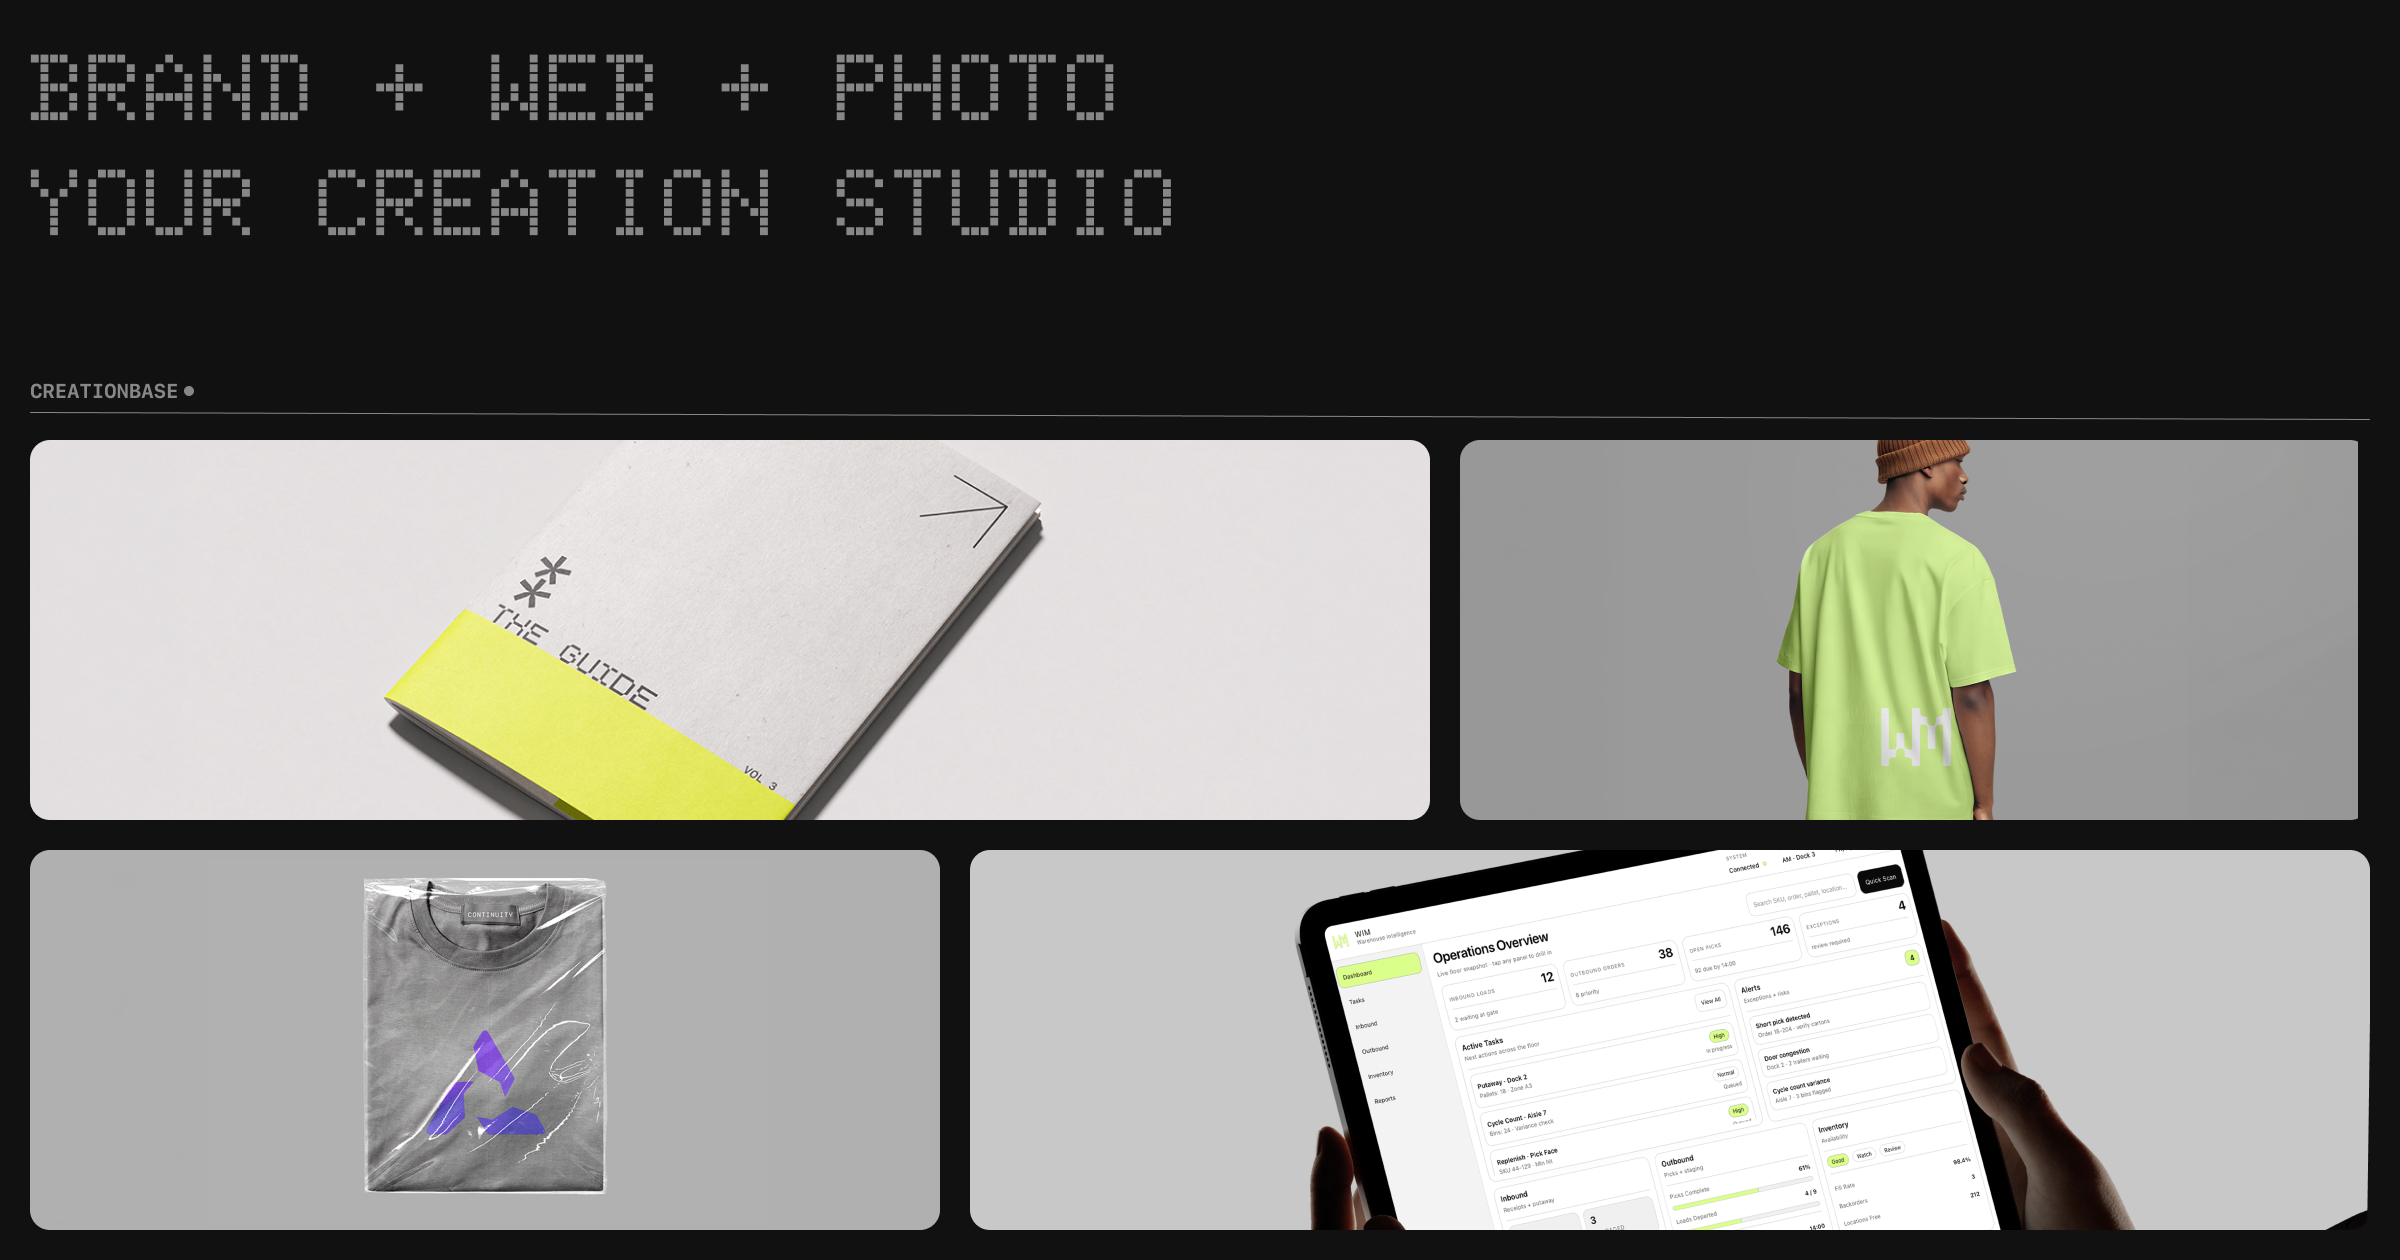
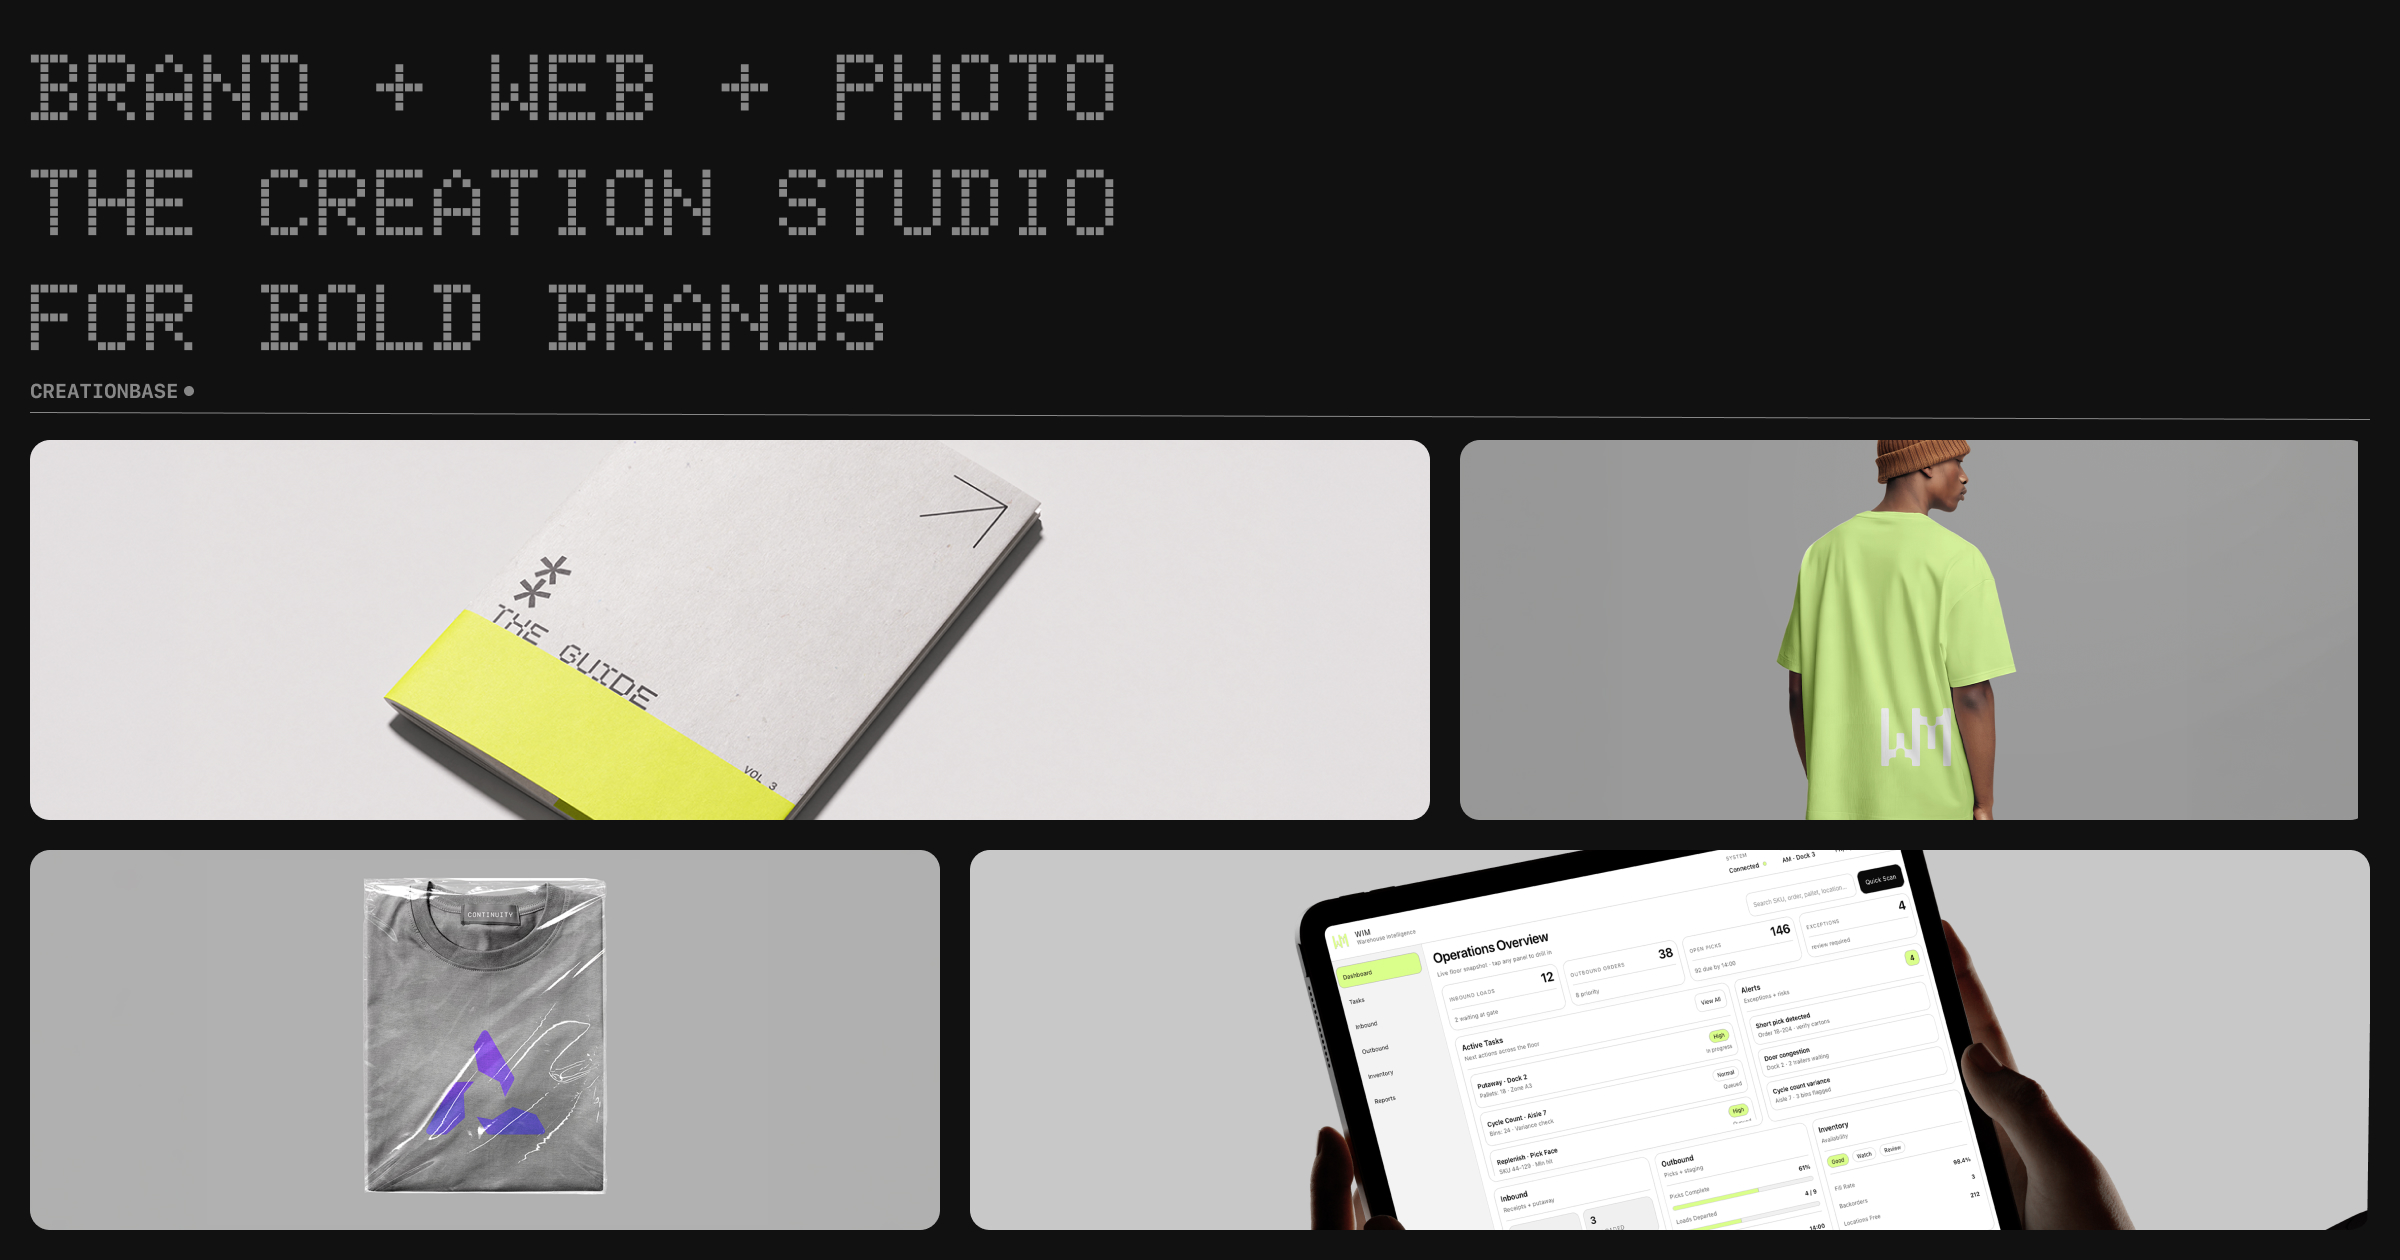
sticky fix and cta

Changed region(s): [[0.0, 0.1238, 0.5, 0.1857], [0.0, 0.2167, 0.375, 0.2786]]

diff --git a/src/App.jsx b/src/App.jsx
@@ -1251,7 +1251,7 @@ function App() {
                     <DecryptText as="span" text="Brand + Web + Photo" trigger="mount" delay={200} duration={900} />
                   </div>
                   <div className="home-hero__title-line" style={{ overflow: 'hidden', paddingBottom: '0.1em' }}>
-                    <DecryptText as="span" text="Your Creation Studio" trigger="mount" delay={260} duration={900} />
+                    <DecryptText as="span" text="The Creation Studio For Bold Brands" trigger="mount" delay={260} duration={900} />
                   </div>
                 </h1>
                 <motion.div 
@@ -1376,6 +1376,110 @@ function App() {
               </div>
             </motion.section>
 
+            <section
+              data-header-theme="light"
+              className="home-overview"
+              style={{
+                padding: 'calc(var(--spacing-xxl) * 2) var(--spacing-md) var(--spacing-xxl)',
+                background: UI_DARK,
+                color: UI_LIGHT,
+                minHeight: 'auto',
+                display: 'flex',
+                flexDirection: 'column',
+                position: 'relative',
+                zIndex: 2,
+              }}
+            >
+              <motion.div
+                initial={{ opacity: 0, y: 18 }}
+                whileInView={{ opacity: 1, y: 0 }}
+                viewport={{ once: true, margin: '-10% 0px -10% 0px' }}
+                transition={{ duration: 0.5 }}
+                style={{
+                  width: '100%',
+                  maxWidth: 'var(--content-max-w)',
+                  margin: '0 auto',
+                  borderTop: HOME_SECTION_DIVIDER,
+                  borderBottom: HOME_SECTION_DIVIDER,
+                  padding: 'clamp(28px, 5vw, 56px) 0',
+                  display: 'grid',
+                  gridTemplateColumns: isMobile ? '1fr' : 'minmax(120px, 0.28fr) minmax(0, 1fr)',
+                  gap: 'var(--spacing-lg)',
+                  alignItems: 'start',
+                }}
+              >
+                <div
+                  className="small-text"
+                  style={{
+                    opacity: 0.72,
+                    letterSpacing: '0.08em',
+                    paddingTop: '6px',
+                  }}
+                >
+                  START / 02
+                </div>
+                <div
+                  style={{
+                    display: 'grid',
+                    gridTemplateColumns: isMobile ? '1fr' : 'minmax(0, 1.4fr) minmax(220px, 0.6fr)',
+                    gap: 'var(--spacing-lg)',
+                    alignItems: 'end',
+                  }}
+                >
+                  <div style={{ minWidth: 0 }}>
+                    <h2
+                      className="section-title"
+                      style={{
+                        marginBottom: 0,
+                        maxWidth: '12ch',
+                        color: UI_LIGHT,
+                        lineHeight: 0.88,
+                        fontSize: 'clamp(38px, 7vw, 96px)',
+                      }}
+                    >
+                      Start Something Sharp.
+                    </h2>
+                  </div>
+                  <div
+                    style={{
+                      display: 'grid',
+                      gap: '16px',
+                      alignContent: 'end',
+                      minWidth: 0,
+                    }}
+                  >
+                    <p
+                      className="small-text"
+                      style={{
+                        margin: 0,
+                        maxWidth: 320,
+                        lineHeight: 1.45,
+                        opacity: 0.88,
+                        textTransform: 'none',
+                      }}
+                    >
+                      Identity, web design, development, and photography for bold brands.
+                    </p>
+                    <div>
+                      <button
+                        type="button"
+                        className="newsletter-button"
+                        onClick={openStrategyCall}
+                        style={{
+                          display: 'inline-flex',
+                          alignItems: 'center',
+                          gap: 8,
+                        }}
+                      >
+                        Get Started
+                        <ArrowUpRight size={14} weight="thin" aria-hidden="true" />
+                      </button>
+                    </div>
+                  </div>
+                </div>
+              </motion.div>
+            </section>
+
             {/* Selected Clients & Testimonials */}
             <section style={{ 
               padding: '0',
@@ -1385,6 +1489,7 @@ function App() {
               display: 'flex',
               flexDirection: 'column',
               position: 'relative',
+              zIndex: 3,
               overflow: 'hidden'
             }}>
               {/* Selected Clients Marquee/Grid */}

diff --git a/src/index.css b/src/index.css
@@ -1229,12 +1229,46 @@ ul {
 .home-project-stack {
   position: relative;
   background: var(--color-bg);
+  z-index: 0;
+  isolation: isolate;
 }
 
 .home-project-layer {
   position: relative;
   min-height: 200vh;
   background: transparent;
+}
+
+.home-project-layer:last-child {
+  min-height: auto;
+}
+
+.home-project-layer:last-child .home-project-layer__sticky {
+  position: relative;
+  top: auto;
+  min-height: auto;
+  padding-bottom: 0;
+}
+
+.home-project-layer:last-child .home-project-layer__panel {
+  min-height: auto;
+  padding-bottom: 0;
+}
+
+.home-project-layer:nth-last-child(2) {
+  min-height: calc(100vh - 10px);
+}
+
+.home-project-layer:nth-last-child(2) .home-project-layer__sticky {
+  position: relative;
+  top: auto;
+  min-height: auto;
+  padding-bottom: 0;
+}
+
+.home-project-layer:nth-last-child(2) .home-project-layer__panel {
+  min-height: auto;
+  padding-bottom: 0;
 }
 
 .home-project-layer + .home-project-layer {
@@ -1753,6 +1787,14 @@ ul {
 
   .home-project-layer {
     min-height: 170vh;
+  }
+
+  .home-project-layer:last-child {
+    min-height: auto;
+  }
+
+  .home-project-layer:nth-last-child(2) {
+    min-height: calc(100vh - 10px);
   }
 
   .home-project-layer + .home-project-layer {

diff --git a/index.html b/index.html
@@ -9,7 +9,7 @@
     <title>Creationbase — Design, Development, Photography &amp; Visual Systems</title>
     <meta name="title" content="Creationbase — Design, Development, Photography &amp; Visual Systems" />
     <meta name="description" content="Creationbase is a Boise creative studio specializing in brand design, UI/UX, high-performance web development, and commercial photography." />
-    <meta name="keywords" content="visual systems, design systems, ui ux design, website design, web development, photography, commercial photography, react development, vite, brand systems, boise creative studio" />
+    <meta name="keywords" content="visual systems, design systems, ui ux design, website design, web development, photography, commercial photography, react development, brand systems, boise creative studio" />
     <meta name="author" content="Creationbase" />
     <link rel="canonical" href="https://www.creationbase.io/" />
 
